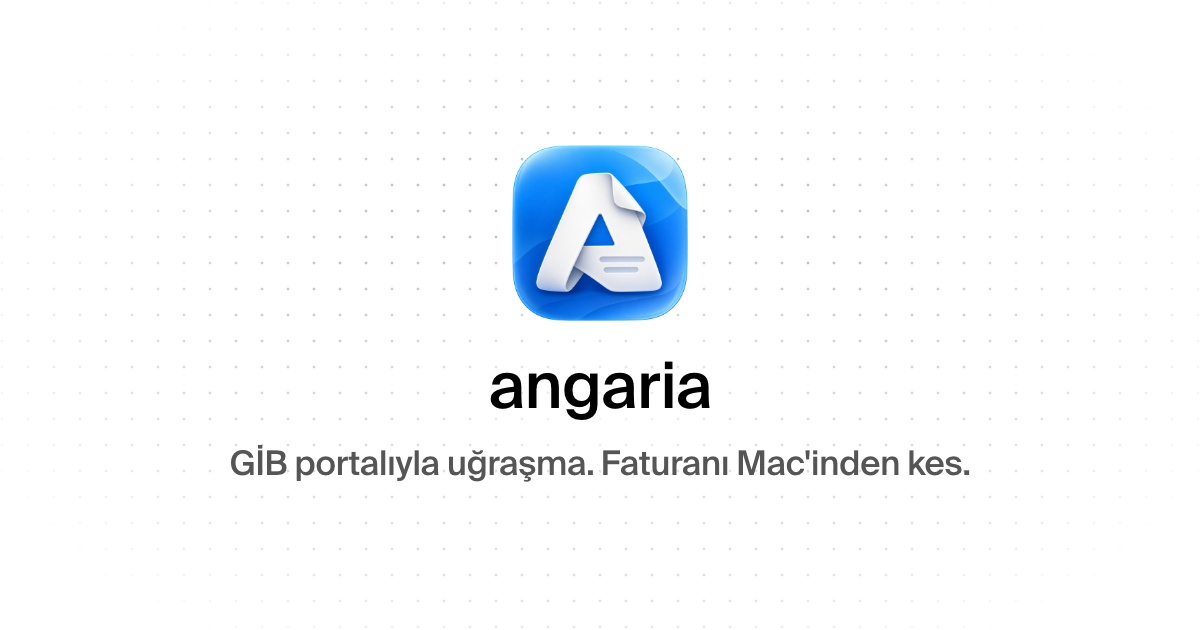
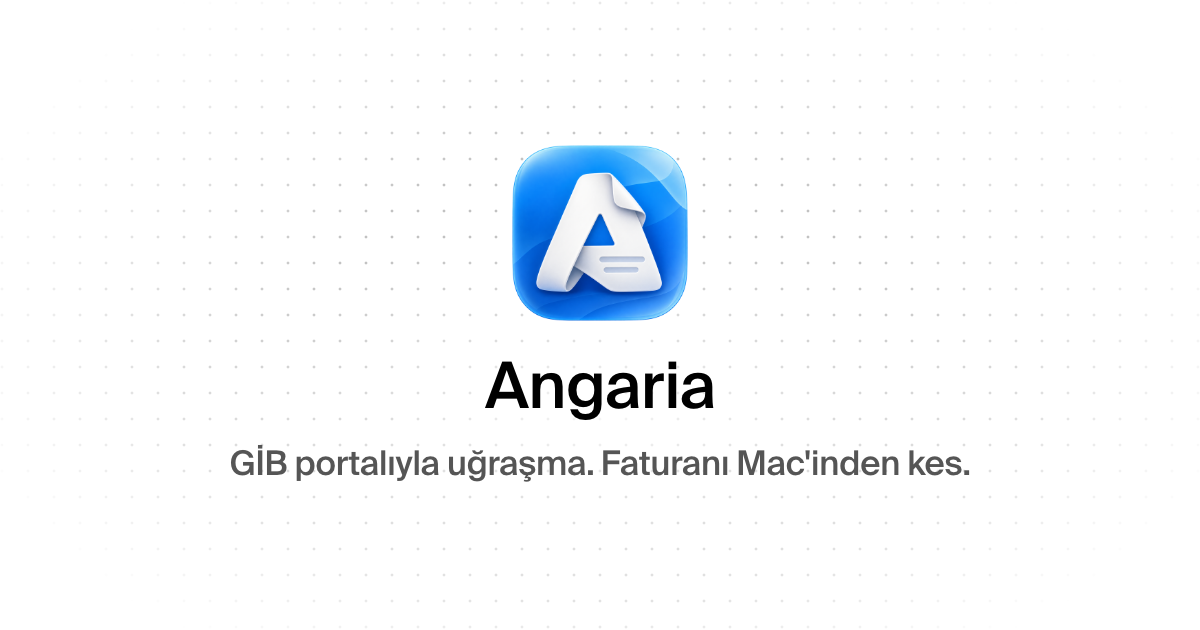
feat(brand): show the brand as Angaria with a capital A
The wordmark (site header, desktop sidebar, license screen), the OG image,
the MCP scene's app icon letter and the UI gallery title now read Angaria.

Changed region(s): [[0.4008, 0.573, 0.6167, 0.6635]]

diff --git a/packages/ui/src/ui/wordmark.tsx b/packages/ui/src/ui/wordmark.tsx
@@ -5,8 +5,8 @@ import type { StyleXStyles } from '@stylexjs/stylex';
 import type { ComponentProps } from 'react';
 import { customClassName } from '../lib/utils.stylex.ts';
 
-/** The brand is the word: always lowercase, never translated. */
-const WORDMARK = 'angaria';
+/** The brand is the word: always `Angaria` with a capital A, never translated. */
+const WORDMARK = 'Angaria';
 
 const styles = create({
   root: {
@@ -18,7 +18,6 @@ const styles = create({
     fontWeight: 500,
     letterSpacing: '-0.02em',
     lineHeight: 1,
-    textTransform: 'lowercase',
     whiteSpace: 'nowrap',
   },
 });
@@ -27,7 +26,7 @@ export type WordmarkProps = Omit<ComponentProps<'span'>, 'children' | 'style'> &
   style?: StyleXStyles | undefined;
 };
 
-/** Lowercase `angaria` in Suisse Intl Medium. Size it with `style` (fontSize). */
+/** `Angaria` in Suisse Intl Medium. Size it with `style` (fontSize). */
 const Wordmark = ({ className, style, ...props }: WordmarkProps) => (
   <span
     data-slot="wordmark"

diff --git a/apps/web/scripts/render-brand.ts b/apps/web/scripts/render-brand.ts
@@ -38,7 +38,7 @@ body { align-items: center; background: #ffffff; color: #000000; display: flex; 
 .icon { display: block; height: 176px; position: relative; width: 176px; }
 .wordmark { font-size: 64px; letter-spacing: -0.02em; line-height: 1; margin-top: 36px; position: relative; }
 .tagline { font-size: 34px; letter-spacing: -0.02em; line-height: 1.2; margin-top: 24px; position: relative; text-align: center; color: #555555; }
-</style><div class="dots"></div><img class="icon" src="${dataUrl(iconFile, 'image/png')}" alt=""><div class="wordmark">angaria</div><div class="tagline">${tagline}</div>`;
+</style><div class="dots"></div><img class="icon" src="${dataUrl(iconFile, 'image/png')}" alt=""><div class="wordmark">Angaria</div><div class="tagline">${tagline}</div>`;
 
 const browser = await chromium.launch();
 try {

diff --git a/apps/web/src/components/mcp-scene.tsx b/apps/web/src/components/mcp-scene.tsx
@@ -71,8 +71,6 @@ const styles = create({
     height: 14,
     justifyContent: 'center',
     lineHeight: 1,
-    // The lowercase a sits low in its line box; up a pixel it looks centered.
-    paddingBlockEnd: 1,
     width: 14,
   },
   // GİB's draft status, as the app's outline badge shows it.
@@ -187,7 +185,7 @@ export function McpScene() {
             {m.mcp_scene_prompt()}
           </span>
           <div data-part="tool" {...props(scene.at(13, 62), scene.size(236, 26), styles.tool)}>
-            <span {...props(styles.appIcon)}>{'a'}</span>
+            <span {...props(styles.appIcon)}>{'A'}</span>
             <span>{m.mcp_scene_app()}</span>
             <span {...props(scene.muted)}>{mcpToolTitle('create_invoice')}</span>
             <span {...props(styles.status)}>

diff --git a/apps/desktop/ui-gallery.html b/apps/desktop/ui-gallery.html
@@ -6,7 +6,7 @@
   <head>
     <meta charset="UTF-8" />
     <meta name="viewport" content="width=device-width, initial-scale=1.0" />
-    <title>angaria ui</title>
+    <title>Angaria UI</title>
   </head>
   <body>
     <div id="root"></div>
